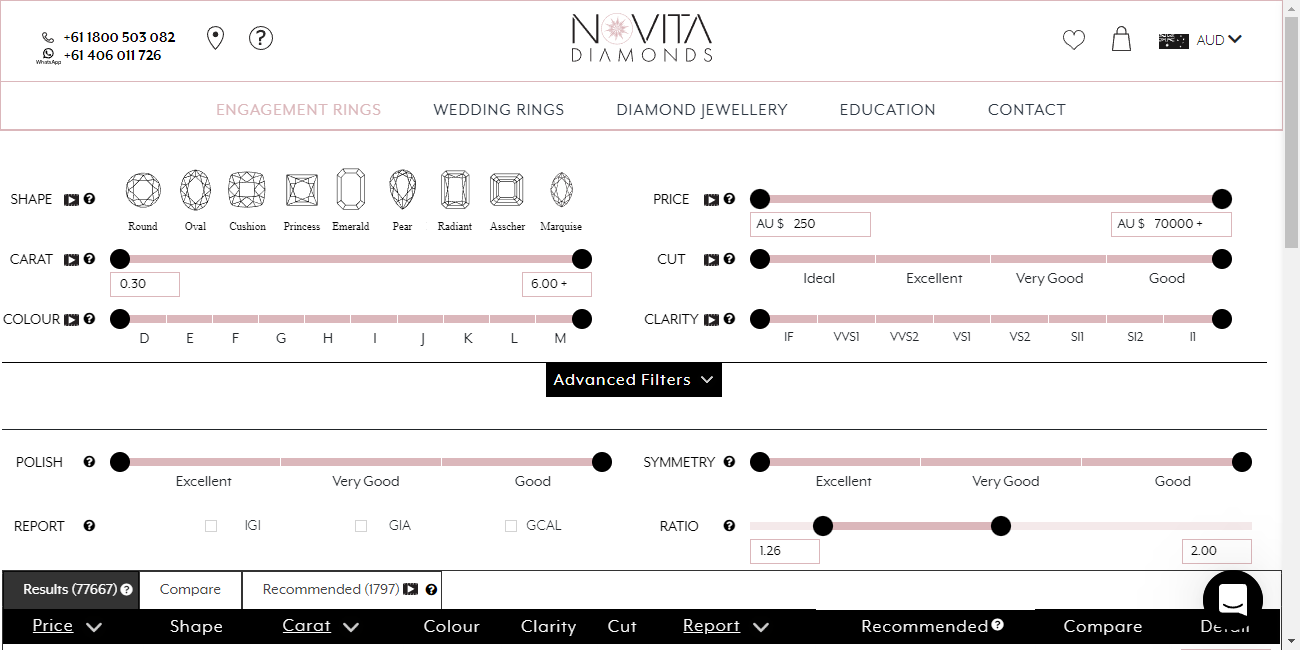
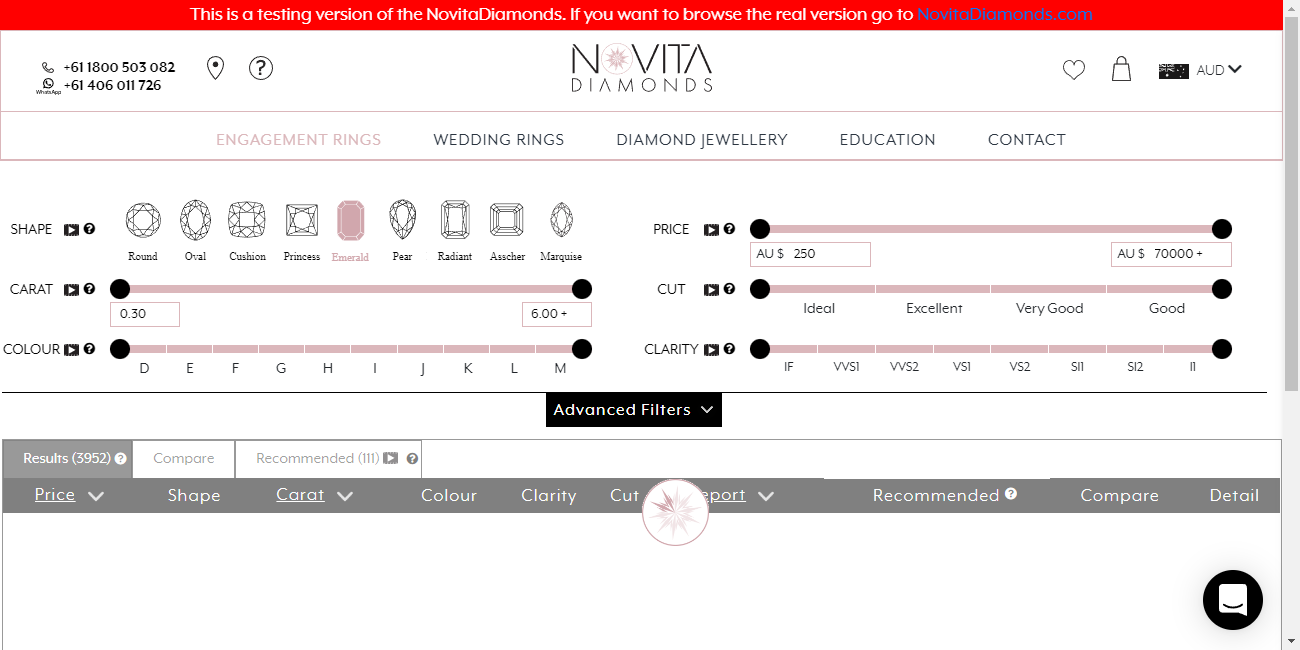
Buy loose diamond fixed

diff --git a/Test-2-BuyLooseDiamond.js b/Test-2-BuyLooseDiamond.js
@@ -363,7 +363,7 @@ Scenario('Buy a loose diamond', async ({ I }) => {
                         for (let i = 0; i < total; i++) {
                             // The ratio response is null
                             // results[0].response.items[i].ratio < parseFloat(params.ratioFrom) || results[0].response.items[i].ratio > parseFloat(params.ratioTo)
-                            if(results[0].response.items[i].ratio != null) {
+                            if(results[0].response.items[i].ratio != null && (results[0].response.items[i].ratio < parseFloat(params.ratioFrom) || results[0].response.items[i].ratio > parseFloat(params.ratioTo))) {
                                 console.log(`>>> Error in values obtained from RATIO filter.`);
                                 return false;
                             }
@@ -386,27 +386,20 @@ Scenario('Buy a loose diamond', async ({ I }) => {
 
 
 
-
-
-
-
-    // Check the Symmetry filter
-    // Check the Ratio filter 
-    // Check the compare option
-    function compareDiamonds() {
+    const compareDiamonds = () => {
         I.click('//*[@id="body_table_results"]/tr[1]/td[9]/div/span[1]/img');
         I.click('//*[@id="body_table_results"]/tr[2]/td[9]/div/span[1]/img');
         I.click("#to_compare_diamonds_from_diamond_list");
     };
     // Check the option video
-    async function checkVideo() {
+    const checkVideo = async () => {
         // return await I.grabCssPropertyFrom('#diamond_detail_section .diamond_detail_tabs .video_tab', 'display');
         I.click('#diamond_detail_section .diamond_detail_tabs .video_tab');
         I.waitForText('Actual video of the diamond');
         I.see('Actual video of the diamond');
     };
     // SORT TABLE FOR PRICE
-    async function sortByPrice(order) {
+    const sortByPrice = async (order) => {
         const prices = await I.grabTextFromAll('tbody tr td:nth-child(1)');
         let previousNumber = 0;
         if (order == "higher") {
@@ -429,7 +422,7 @@ Scenario('Buy a loose diamond', async ({ I }) => {
         };
     };
     // SORT TABLE FOR CARAT
-    async function sortByCarat(order) {
+    const sortByCarat = async (order) => {
         const carat = await I.grabTextFromAll('tbody tr td:nth-child(3)');
         let previousNumber = 0;
         if (order == "higher") {
@@ -452,7 +445,7 @@ Scenario('Buy a loose diamond', async ({ I }) => {
         };
     };
     // SORT TABLE FOR REPORT
-    async function sortByReport(order) {
+    const sortByReport = async (order) => {
         const report = await I.grabTextFromAll('tbody tr td:nth-child(7)');
         for (const elem of report) {
             if(order == "higher") {
@@ -467,14 +460,14 @@ Scenario('Buy a loose diamond', async ({ I }) => {
         };
     };
     // Check URL of certificate
-    async function checkURLcertificate() {
+    const checkURLcertificate = async () => {
         let url =  await I.grabCurrentUrl();
         if(!(url.includes('https://www.gcalusa.com/certificate-search.html')) && !(url.includes('https://www.igi.org/reports/'))) {
             console.log('Error in current URL of certificate.');
         }
     };
     // SELECT DIAMOND
-    async function selectDiamond() {
+    const selectDiamond = async () => {
         const diamonds = await I.grabHTMLFromAll('#body_table_results tr td:last-child a');
         let i = 1;
         for (const elem of diamonds) {
@@ -498,19 +491,19 @@ Scenario('Buy a loose diamond', async ({ I }) => {
     checkDiamondShape();
     //----------------------------------------------- CARAT FILTER -----------------------------------------------
     I.say('CHECKING CARAT FILTER');
-    // checkDiamondCarat();
+    checkDiamondCarat();
     //----------------------------------------------- COLOUR FILTER -----------------------------------------------
     I.say('CHECKING COLOUR FILTER');
-    // checkDiamondColour();
+    checkDiamondColour();
     //----------------------------------------------- PRICE FILTER -----------------------------------------------
     I.say('CHECKING PRICE FILTER');
     checkDiamondPrice();
     //----------------------------------------------- CUT FILTER --------------------------------------------------
     I.say('CHECKING CUT FILTER');
-    checkDiamondCut();
+    // checkDiamondCut();
     //----------------------------------------------- CLARITY FILTER -----------------------------------------------
     I.say('CHECKING CLARITY FILTER');
-    // checkDiamondClarity();
+    checkDiamondClarity();
     //------------------------------------------- BUTTON ADVANCED FILTERS ------------------------------------------
     I.say('BUTTON ADVANCED FILTERS');
     I.click("#advanced_filters_button");
@@ -527,15 +520,11 @@ Scenario('Buy a loose diamond', async ({ I }) => {
     //----------------------------------------------- RATIO FILTER ------------------------------------------------
     I.say('CHECKING RATIO FILTER');
     checkDiamondRatio();
-    
-
-
-    pause()
-
 
     // SORT RESULTS
     //------------------------------------------------------------------------------
     I.say('SORT RESULTS');
+    waitResponseAndtext();
     I.click('#price_table_header_img');
     waitResponseAndtext();
     sortByPrice('higher');
@@ -558,8 +547,7 @@ Scenario('Buy a loose diamond', async ({ I }) => {
 
     // OPTION COMPARE DIAMONDS
     I.say('OPTION COMPARE DIAMONDS');
-    compareDiamonds();    
-    
+    compareDiamonds();
     // Select Results options form the table
     I.click('#to_diamond_list_from_compare_diamonds');
 
@@ -579,7 +567,7 @@ Scenario('Buy a loose diamond', async ({ I }) => {
     checkVideo();
     // Check the Certificate option
     I.click('#diamond_detail_section .diamond_detail_tabs .certificate_tab');
-    I.wait(2);
+    I.wait(10);
     I.switchToNextTab();
     checkURLcertificate();
     I.closeCurrentTab();
@@ -588,7 +576,7 @@ Scenario('Buy a loose diamond', async ({ I }) => {
     I.click('#tab_diamond_image');
     // IGI Certified
     I.click('#diamond_detail_section .diamond_detail_content_features .er_details_column_one a');
-    I.wait(2);
+    I.wait(10);
     I.switchToNextTab();
     checkURLcertificate();
     I.closeCurrentTab();
@@ -596,7 +584,7 @@ Scenario('Buy a loose diamond', async ({ I }) => {
 
     // 20% Deposit Available
     I.click('20% Deposit Available');
-    I.wait(2);
+    I.wait(10);
     I.switchToNextTab();
     I.seeInCurrentUrl('/deposit');
     I.closeCurrentTab();
@@ -605,11 +593,11 @@ Scenario('Buy a loose diamond', async ({ I }) => {
     // TO CHOOSE 'ADD LOOSE DIAMOND TO CART' OPTION
     I.say('TO CHOOSE "ADD LOOSE DIAMOND TO CART" OPTION');
     I.click('#add_loose_diamond_to_cart_submit');
-    I.waitForText('SHOPPING CART', 10);
+    I.waitForText('SHOPPING CART', 30);
 
     I.checkOption('#loose_diamond_option_false');
     I.checkOption('#loose_diamond_option_true');
-    I.wait(1);
+    I.wait(5);
     I.fillField('#cart .custom-control p .name-input', 'Name member');
     I.selectOption('#select_ring_size', '3/4');
 
@@ -621,7 +609,7 @@ Scenario('Buy a loose diamond', async ({ I }) => {
     I.say('CLICK IN CHECKOUT');
     I.click('#cart table tbody .order_summary_checkout_button a');
     I.wait(2);
-    I.waitForText('WHERE DO YOU WANT THESE ITEMS SENT?', 10, 'h2');
+    I.waitForText('WHERE DO YOU WANT THESE ITEMS SENT?', 30, 'h2');
 
     I.say('SHIP TO MY ADDRESS FORM');
     I.fillField('#shipping_billing_information_form_shippingFirstName', 'Jose Testing');
@@ -649,7 +637,7 @@ Scenario('Buy a loose diamond', async ({ I }) => {
     I.fillField('#shipping_billing_information_form_billingPostcode', 'AA9A9AA');
     I.fillField('#shipping_billing_information_form_billingPhone', '123456');
     I.click('#cart_shipping_content .last_row .right_submit input');
-    I.waitForText('PAYMENT METHOD', 10, 'h2');
+    I.waitForText('PAYMENT METHOD', 30, 'h2');
     I.click('#checkbox_bank_wire_description');
     I.say('PLEASE, ACTIVATE THE CAPTCHA THEN TYPE "exit" IN THE CONSOLE AND PRESS ENTER TO CONTINUE');
     pause();

diff --git a/Test-1-StartWithADiamond.js b/Test-1-StartWithADiamond.js
@@ -434,6 +434,7 @@ Scenario('Buy a diamond', async ({ I }) => {
 
     // 20% Deposit Available
     I.say('20% DEPOSIT AVAILABLE');
+    I.wait(5)
     I.switchToNextTab();
     I.seeInCurrentUrl('/deposit');
     I.closeCurrentTab();
@@ -495,7 +496,7 @@ Scenario('Buy a diamond', async ({ I }) => {
     I.waitForText('FREE SHIPPING', waitTime, 'h2')
     I.see('FREE SHIPPING');
     I.click('> LEARN MORE');
-    I.wait(4);
+    I.wait(5);
     I.switchToNextTab();
     I.seeInCurrentUrl('/free-shipping');
     I.closeCurrentTab();
@@ -507,7 +508,7 @@ Scenario('Buy a diamond', async ({ I }) => {
     I.waitForText('FREE 30 DAYS RETURN POLICY', waitTime, 'h3')
     I.see('FREE 30 DAYS RETURN POLICY', 'h3');
     I.click('> LEARN MORE');
-    I.wait(4);
+    I.wait(5);
     I.switchToNextTab();
     I.seeInCurrentUrl('/free-return');
     I.closeCurrentTab();
@@ -520,17 +521,17 @@ Scenario('Buy a diamond', async ({ I }) => {
     I.waitForText('SHARE THIS', waitTime, 'h3')
     I.see('SHARE THIS');
     I.click('Facebook');
-    I.wait(4);
+    I.wait(5);
     I.switchToNextTab();
     I.seeInCurrentUrl('facebook.com');
     I.closeCurrentTab();
     I.click('Twitter');
-    I.wait(4);
+    I.wait(5);
     I.switchToNextTab();
     I.seeInCurrentUrl('twitter.com');
     I.closeCurrentTab();
     I.click('Pinterest');
-    I.wait(4);
+    I.wait(5);
     I.switchToNextTab();
     I.see('Pinterest', 'h2');
     I.closeCurrentTab();

diff --git a/codecept.conf.js b/codecept.conf.js
@@ -14,9 +14,9 @@ exports.config = {
     Playwright: {
       browser: 'chromium',
       show: true,
-      url: 'https://novitadiamonds.com/',
+      // url: 'https://novitadiamonds.com/',
       // url: 'http://novitadiamonds.localhost',
-      // url: 'https://manmadediamonds.com.au/',
+      url: 'https://manmadediamonds.com.au/',
       waitForAction: 300,
       waitForNavigation: 'load',
       windowSize: "1300x650"
